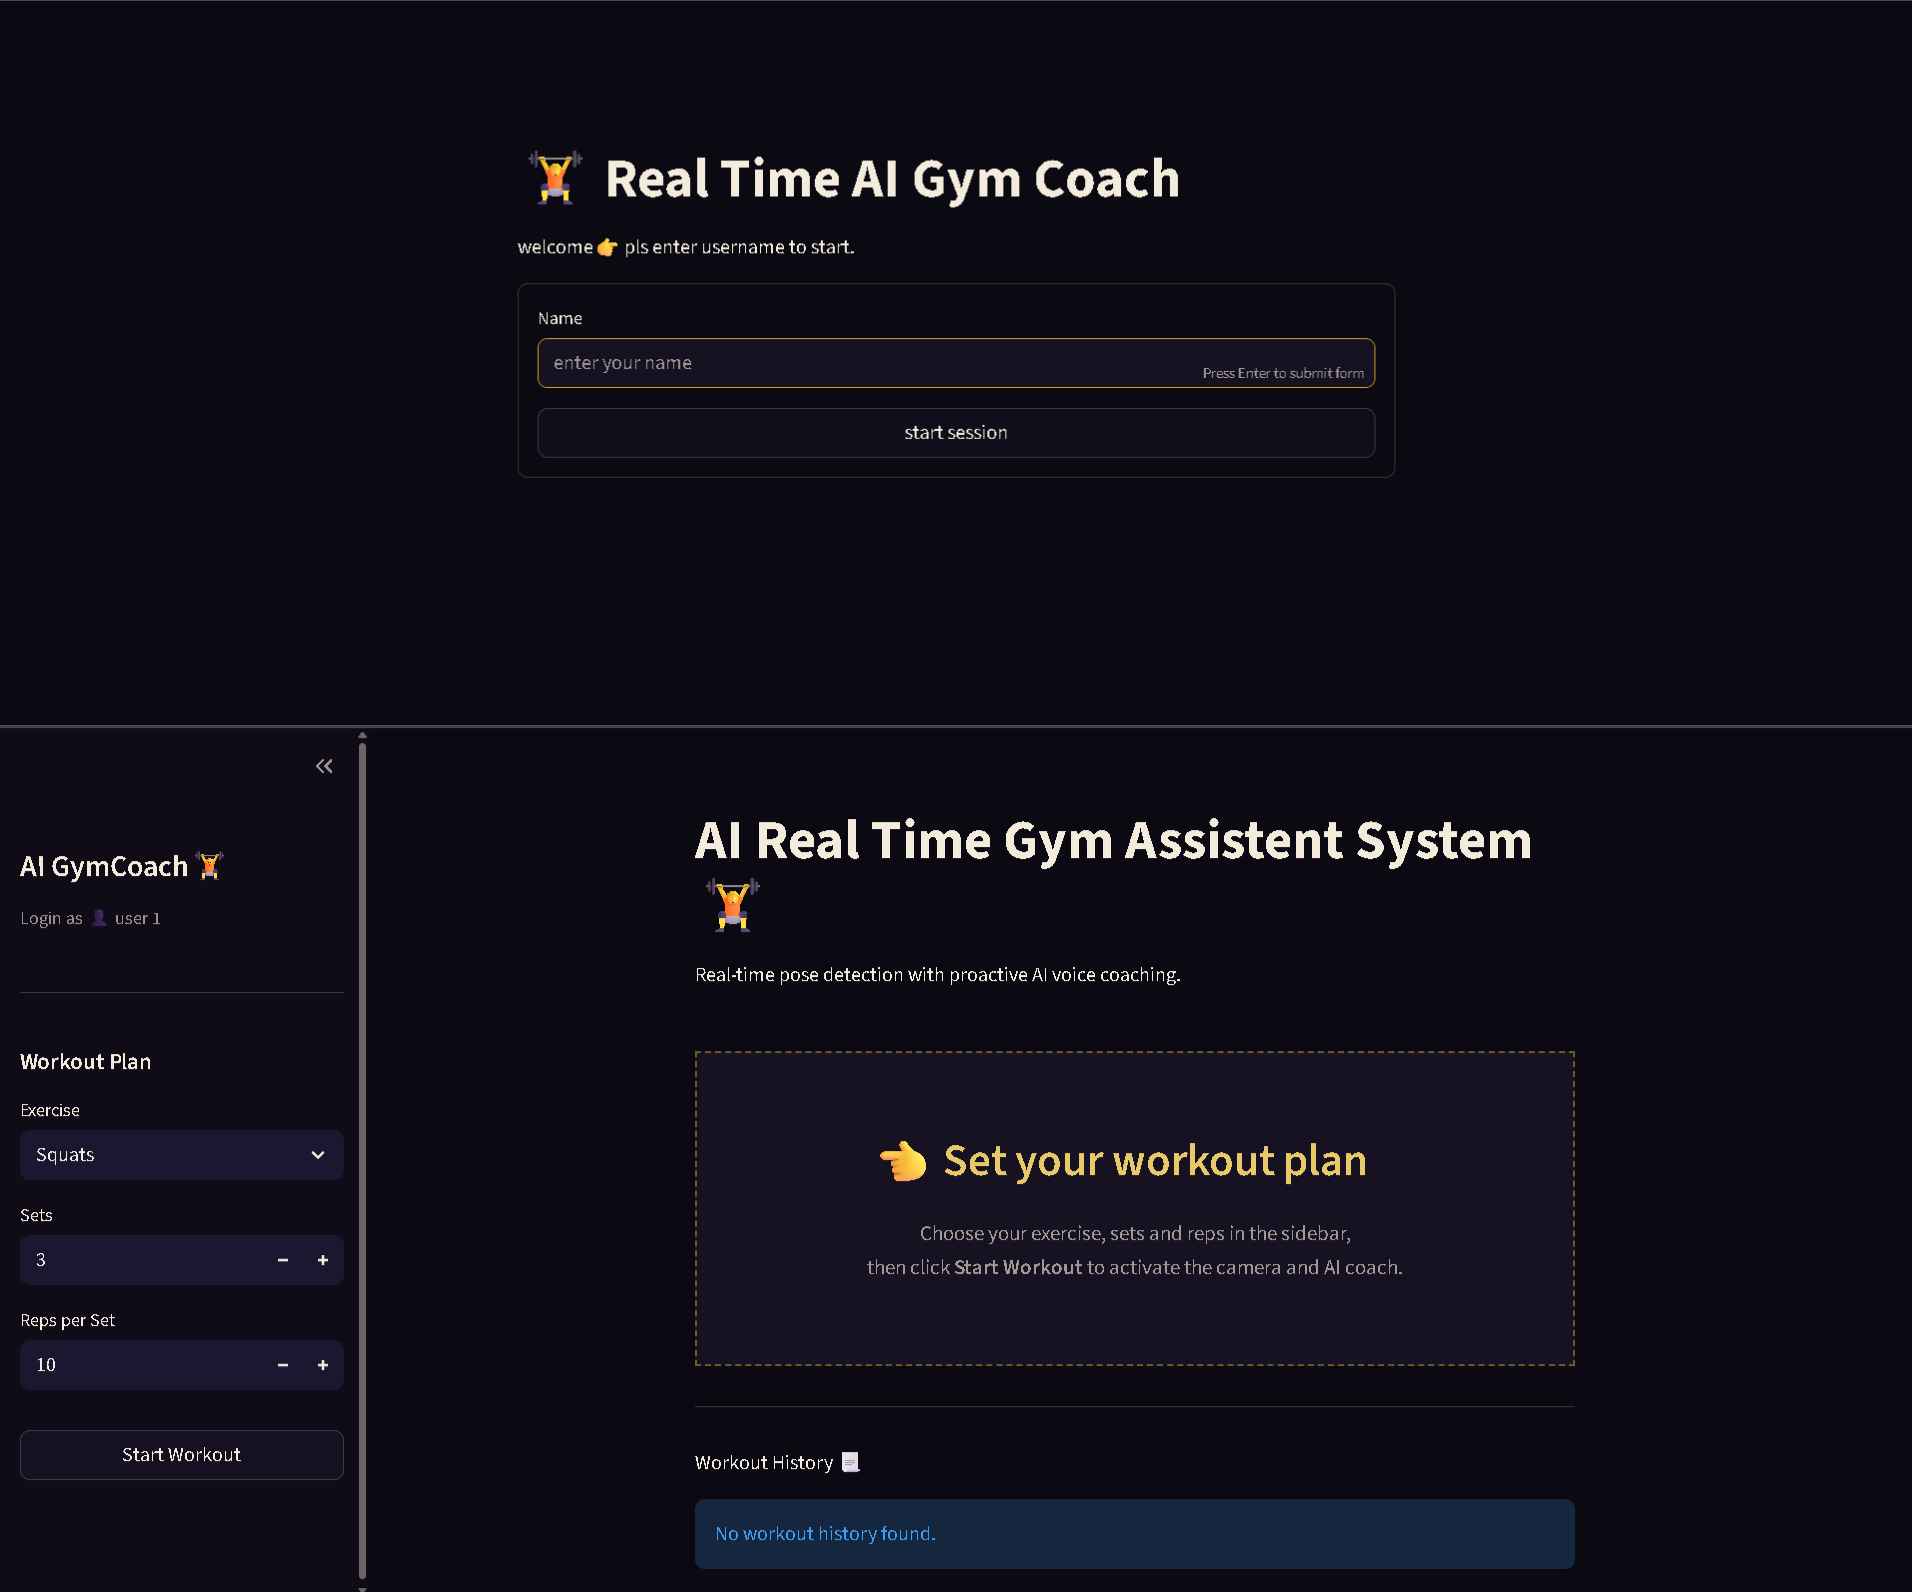
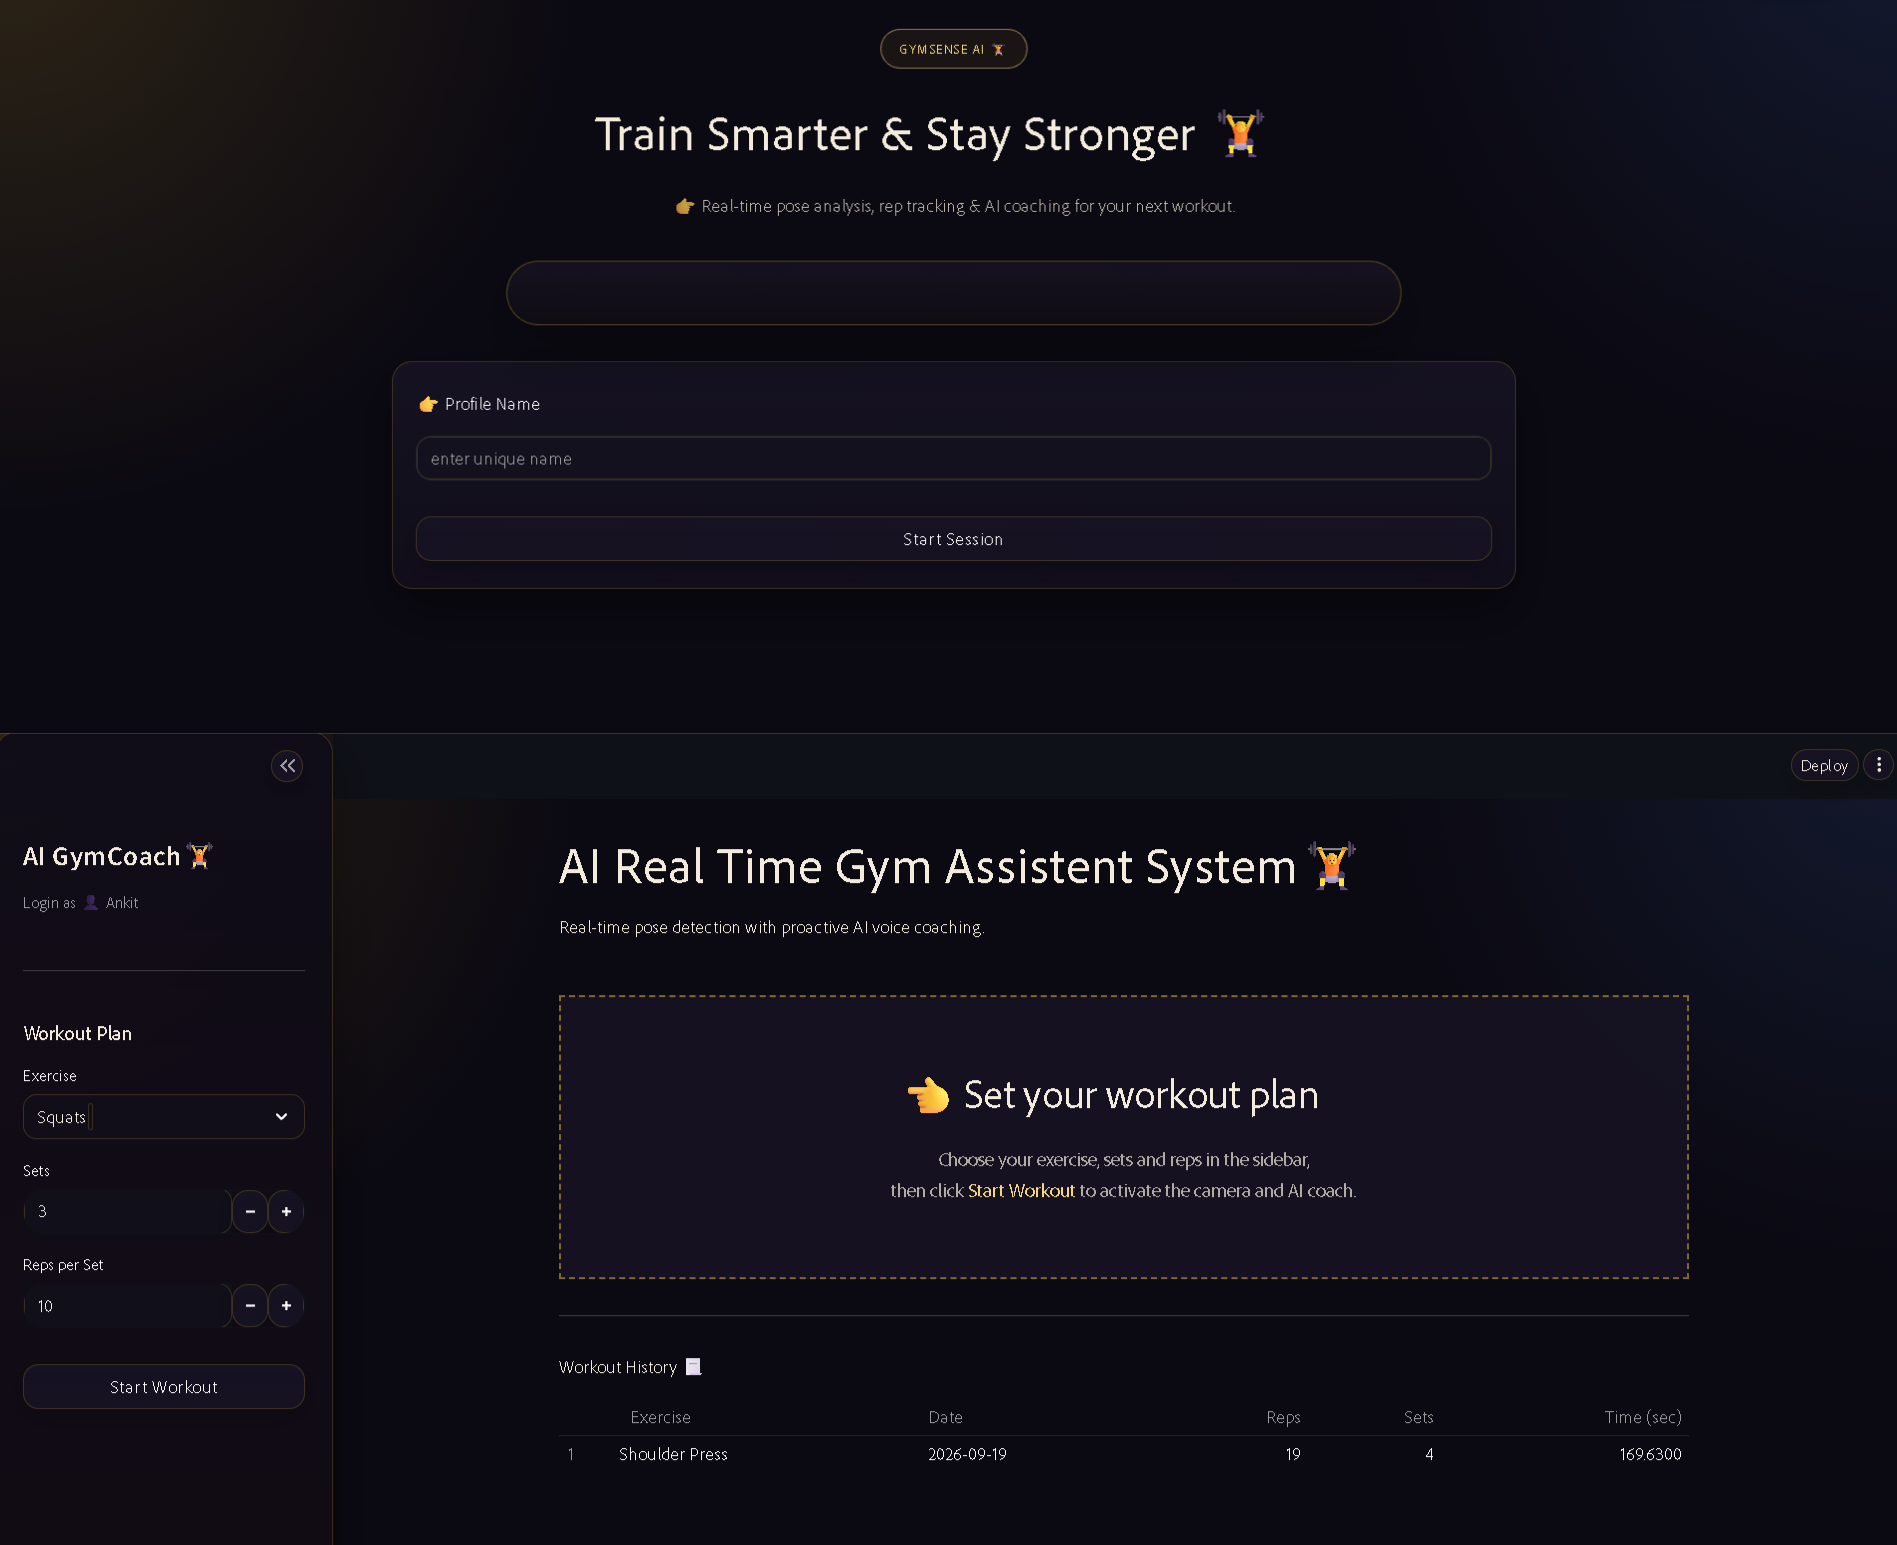
Gymsense ✅

diff --git a/overview/index.html b/overview/index.html
@@ -52,7 +52,7 @@
     </p>
 
     <div class="hero-cta-row">
-      <a href="https://gymsense-snmc.onrender.com" target="_blank" rel="noopener noreferrer" class="btn-primary">
+      <a href="https://gymsense-vkfb.onrender.com" target="_blank" rel="noopener noreferrer" class="btn-primary">
         <span>Try it live</span>
         <svg width="16" height="16" viewBox="0 0 16 16" fill="none" aria-hidden="true">
           <path d="M3 8H13M13 8L9 4M13 8L9 12" stroke="currentColor" stroke-width="1.5" stroke-linecap="round"

diff --git a/README.md b/README.md
@@ -30,7 +30,7 @@
 ***GymSense can detect body landmarks, calculate joint angles, identify exercise movement phases, count valid repetitions, track sets, save workout history, and optionally provide AI-generated voice coaching.***
 
 <p align="center">
-<a href="https://gymsense-snmc.onrender.com" target="_blank">
+<a href="https://gymsense-vkfb.onrender.com" target="_blank">
 <img src="https://img.shields.io/badge/🚀%20Live%20Demo-Visit%20GymSense-success?style=for-the-badge">
 </a>
 </p>
